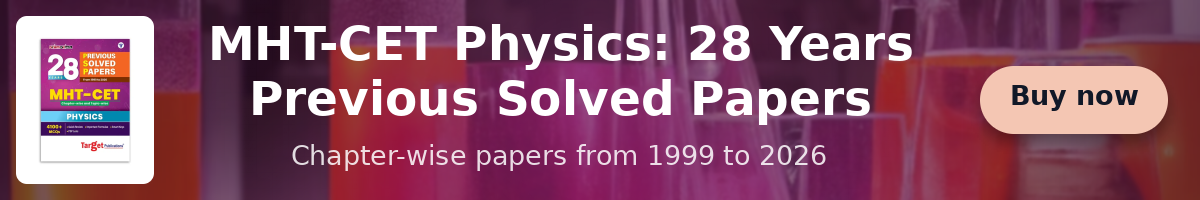
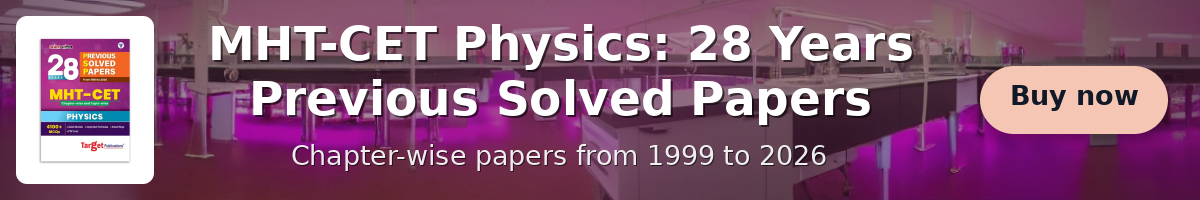
feat: native wide AI backgrounds with panoramic education prompts
- AiBackground::dimensions(): generate 6:1 / 4:1 / 3:1 banners natively wide instead of cropping a landscape photo
- AiStyles: panoramic prompt for every education scene, negative prompt against clutter
- Light overlay + soft text shadow on AI strips so the scene stays visible
- Physics scenes get a study-desk option for variety; study-desk prompt tightened
- tests and README

diff --git a/src/Ads/Ai/AiStyles.php b/src/Ads/Ai/AiStyles.php
@@ -33,6 +33,27 @@ final class AiStyles
         'books-stack' => 'stack of books with pencils and a green apple on a wooden desk by a window, {colors} color grading',
     ];
 
+        /**
+         * Panoramic versions of the education scenes, written for banners 2.4:1 and wider: the subject is spread along the
+         * whole width with calm space for the headline, instead of one subject in the middle.
+         *
+         * @var array<string, string>
+         */
+        private const WIDE = [
+            'classroom' => 'extremely wide panoramic photo, a long empty classroom with rows of wooden desks and a chalkboard along the whole width, soft daylight, shallow depth of field, {colors} tinted walls, symmetrical, clean',
+            'exam-hall' => 'extremely wide panoramic photo, a long row of empty exam desks and chairs in a school hall, soft daylight, shallow depth of field, {colors} color grading, symmetrical, clean',
+            'study-desk' => 'wide panoramic close-up photo of a wooden desk surface covered with stacks of books, open notebooks, pencils and an apple, window light behind, shallow depth of field, {colors} tinted, clean',
+            'library' => 'extremely wide panoramic photo, a long wooden shelf with a row of books, pencils, a globe and a desk lamp spread along the whole width, soft warm light, shallow depth of field, {colors} tinted background wall, empty clean space',
+            'science-lab' => 'extremely wide panoramic photo, a long science laboratory bench with a row of glass beakers, flasks, test tubes and a microscope spread along the whole width, soft {colors} light, shallow depth of field, dark blurred background',
+            'physics-concept' => 'wide panoramic illustration, physics theme, glowing atom orbits, pendulum, lenses and light rays spread along the whole width on a deep {colors} gradient background, thin glowing lines, clean minimal, empty center',
+            'chemistry-lab' => 'extremely wide panoramic photo, a long laboratory bench with colourful liquids in flasks and test tubes in a row, {colors} glow, dark blurred background, soft bokeh lights',
+            'maths-geometry' => 'extremely wide panoramic top view on graph paper, compass, ruler, protractor and set squares spread along the whole width, {colors} tones, soft light, clean, empty center',
+            'biology-lab' => 'extremely wide panoramic photo, a long bench with a microscope, petri dishes and green plant leaves spread along the width, fresh light, {colors} tones, shallow depth of field',
+            'notebook-desk' => 'extremely wide panoramic photo, a long desk with open notebooks, graph paper and pencils spread along the width, soft window light, {colors} tinted, shallow depth of field, empty clean space',
+            'graduation' => 'extremely wide panoramic photo, graduation caps in the air with golden confetti and bokeh across the whole width, celebration, {colors} tones, soft light, empty center',
+            'books-stack' => 'extremely wide panoramic photo, rows of stacked books with pencils and a green apple along a wooden desk by a window, {colors} tinted, shallow depth of field',
+        ];
+
     /** @var array<string, string> */
     private const ART = [
         'cinematic-bokeh' => 'cinematic abstract background, {colors} light, soft glowing particles, bokeh, smooth gradient, professional advertising backdrop',
@@ -51,9 +72,9 @@ final class AiStyles
 
     /** keyword in the ad copy => education scenes that fit it (first match with most specific subject wins) */
     private const TOPICS = [
-        'physics' => ['physics-concept', 'science-lab'],
-        'chemistry' => ['chemistry-lab', 'science-lab'],
-        'biology' => ['biology-lab', 'library'],
+        'physics' => ['physics-concept', 'science-lab', 'study-desk'],
+        'chemistry' => ['chemistry-lab', 'science-lab', 'study-desk'],
+        'biology' => ['biology-lab', 'library', 'study-desk'],
         'botany' => ['biology-lab'],
         'zoology' => ['biology-lab'],
         'math' => ['maths-geometry', 'notebook-desk'],
@@ -137,12 +158,19 @@ final class AiStyles
         return $candidates[($seed ?? random_int(0, PHP_INT_MAX)) % count($candidates)];
     }
 
-    /** @param string[] $colorNames */
-    public static function prompt(string $style, array $colorNames): string
+    /**
+     * @param string[] $colorNames
+     * @param bool     $wide       panoramic wording for banners 2.4:1 and wider
+     */
+    public static function prompt(string $style, array $colorNames, bool $wide = false): string
     {
         $colors = implode(' and ', array_unique($colorNames));
-        $template = self::EDUCATION[$style] ?? self::ART[$style];
         $isScene = isset(self::EDUCATION[$style]);
+
+        if ($wide && isset(self::WIDE[$style])) {
+            return str_replace('{colors}', $colors, self::WIDE[$style]) . ', photorealistic, no text, no letters, no logo, no people';
+        }
+        $template = self::EDUCATION[$style] ?? self::ART[$style];
 
         return str_replace('{colors}', $colors, $template) . ', ' . ($isScene ? self::SUFFIX : 'no text, no letters, no people, empty center space');
     }

diff --git a/src/Ads/Ai/AiBackground.php b/src/Ads/Ai/AiBackground.php
@@ -37,8 +37,9 @@ final class AiBackground
     public static function fetch(array $config, Theme $theme, int $targetW, int $targetH): array
     {
         $style = AiStyles::resolve($config['style'], $config['seed'], $config['topic'] ?? null);
-        $prompt = $config['prompt'] ?? AiStyles::prompt($style, [Color::name($theme->primary), Color::name($theme->accent)]);
-        [$w, $h] = self::dimensions($targetW / max(1, $targetH), $config['hires']);
+        $aspect = $targetW / max(1, $targetH);
+        $prompt = $config['prompt'] ?? AiStyles::prompt($style, [Color::name($theme->primary), Color::name($theme->accent)], $aspect >= 2.4);
+        [$w, $h] = self::dimensions($aspect, $config['hires']);
 
         $cache = self::cachePath($prompt, $w, $h, $config['seed']);
         if (is_file($cache) && ($img = @imagecreatefrompng($cache)) !== false) {
@@ -79,8 +80,9 @@ final class AiBackground
         $h = $canvas->height();
         $strip = $w / max(1, $h) >= 3.2;
         $canvas->picture($image, 0, 0, $w, $h, 'cover', 0, [0.5, 0.55]);
-        if ($strip) {
-            // A 6:1 slice of a photo is too busy and soft to be sharp: blur it into a calm, tinted band.
+        $native = abs(imagesx($image) / max(1, imagesy($image)) - $w / max(1, $h)) / ($w / max(1, $h)) < 0.25;
+        if ($strip && !$native) {
+            // A slice cropped from a landscape photo is busy and soft: blur it into a calm band. (Natively wide images stay sharp.)
             for ($i = 0; $i < 3; $i++) {
                 imagefilter($canvas->image(), IMG_FILTER_GAUSSIAN_BLUR);
             }
@@ -93,7 +95,7 @@ final class AiBackground
         $target = $darkMode ? 0.16 : 0.8;
 
         $needed = abs($avg - $scrimL) < 0.02 ? 0.3 : ($avg - $target) / ($avg - $scrimL);
-        $opacity = $strip ? max(0.5, min(0.74, $needed)) : ($lighter ? max(0.15, min(0.4, $needed)) : max(0.3, min(0.78, $needed)));
+        $opacity = $strip ? ($native ? max(0.22, min(0.46, $needed)) : max(0.5, min(0.74, $needed))) : ($lighter ? max(0.15, min(0.4, $needed)) : max(0.3, min(0.78, $needed)));
         $canvas->rect(0, 0, $w, $h, $scrim, $opacity);
 
         if ($strip) {
@@ -112,10 +114,18 @@ final class AiBackground
         }
     }
 
-    /** Sizes SD models handle well (multiples of 64, near 512x512): picked from the target aspect ratio. */
+    /**
+     * Sizes SD models handle well (multiples of 64, about 0.2-0.3 megapixels), picked from the target aspect ratio.
+     * Wide banners are generated natively wide (6:1, 4:1, 3:1) rather than cropped from a landscape photo.
+     *
+     * @return array{0:int,1:int}
+     */
     public static function dimensions(float $aspect, bool $hires = false): array
     {
         return match (true) {
+            $aspect >= 5.0 => $hires ? [1536, 256] : [1152, 192],
+            $aspect >= 3.6 => $hires ? [1280, 320] : [1024, 256],
+            $aspect >= 2.4 => $hires ? [1152, 384] : [960, 320],
             $aspect >= 1.25 => $hires ? [1024, 576] : [768, 448],
             $aspect <= 0.8 => $hires ? [576, 1024] : [448, 768],
             default => $hires ? [832, 832] : [640, 640],

diff --git a/tests/AdBuilderTest.php b/tests/AdBuilderTest.php
@@ -407,7 +407,10 @@ final class AdBuilderTest extends TestCase
             $this->assertStringContainsString('deep purple', $prompt);
             $this->assertStringContainsString('no text', $prompt);
         }
-        $this->assertSame([768, 448], AiBackground::dimensions(3.0));
+        $this->assertSame([1152, 192], AiBackground::dimensions(6.0));
+        $this->assertSame([1024, 256], AiBackground::dimensions(4.0));
+        $this->assertSame([960, 320], AiBackground::dimensions(3.03));
+        $this->assertSame([768, 448], AiBackground::dimensions(1.9));
         $this->assertSame([448, 768], AiBackground::dimensions(0.56));
         $this->assertSame([640, 640], AiBackground::dimensions(1.0));
         $this->assertSame('deep purple', Color::name([70, 20, 110]));
@@ -430,6 +433,11 @@ final class AdBuilderTest extends TestCase
         $this->assertContains(AiStyles::resolve('abstract', 4), AiStyles::artNames());
         $this->assertSame('watercolor', AiStyles::resolve('watercolor'));
         $this->assertStringContainsString('no people', AiStyles::prompt('classroom', ['deep blue']));
+        foreach (AiStyles::educationNames() as $scene) {
+            $wide = AiStyles::prompt($scene, ['deep purple'], true);
+            $this->assertStringContainsString('wide panoramic', $wide, $scene);
+            $this->assertStringContainsString('no text', $wide, $scene);
+        }
     }
 
     public function test_builder_derives_the_scene_from_headline_and_hero_not_the_detail_list(): void

diff --git a/src/Ads/Layouts/AbstractLayout.php b/src/Ads/Layouts/AbstractLayout.php
@@ -38,6 +38,7 @@ abstract class AbstractLayout implements Layout
         }
 
         $align = $spec->textAlign ?? $align;
+        $shadow = $spec->textShadow ? ['color' => [0, 0, 0], 'opacity' => 0.6] : null;
         if ($spec->textPanel) {
             $this->panel($canvas, $theme, $x, $y, $w, $h);
         }
@@ -77,11 +78,11 @@ abstract class AbstractLayout implements Layout
         $cursor = $y + max(0, intdiv($h - $content, 2));
 
         if ($head !== null) {
-            $cursor = $canvas->lines($head['lines'], $heading, $head['size'], $x, $cursor, $w, $textColor, $align, $head['lineHeight']);
+            $cursor = $canvas->lines($head['lines'], $heading, $head['size'], $x, $cursor, $w, $textColor, $align, $head['lineHeight'], $shadow);
         }
         if ($sub !== null) {
             $cursor += $gap;
-            $cursor = $canvas->lines($sub['lines'], $body, $sub['size'], $x, $cursor, $w, $textColor, $align, $sub['lineHeight'], null, 0.85);
+            $cursor = $canvas->lines($sub['lines'], $body, $sub['size'], $x, $cursor, $w, $textColor, $align, $sub['lineHeight'], $shadow, 0.92);
         }
         if ($list !== null) {
             $cursor += $gap;

diff --git a/src/Ads/AdBuilder.php b/src/Ads/AdBuilder.php
@@ -393,6 +393,7 @@ final class AdBuilder
             $spec->textPanel ??= !$layout instanceof PromoLayout && $spec->aspectRatio() < 3.2;   // strips use a blurred, tinted band instead
             // With a panel behind the text the photo can stay brighter and more visible.
             AiBackground::paint($canvas, $aiImage, $theme, (bool) $spec->textPanel);
+            $spec->textShadow = $spec->aspectRatio() >= 3.2;   // strips: light overlay + text shadow keep the scene visible
         } elseif (!($layout instanceof HeroLayout && $spec->hasImages())) {
             $style = $spec->background === 'auto' && $layout instanceof PromoLayout && $spec->aspectRatio() >= 2.2 ? 'arcs' : $spec->background;
             Backgrounds::paint($style, $canvas, $this->specWithTheme($theme), $theme);

diff --git a/src/Ads/Ai/HordeClient.php b/src/Ads/Ai/HordeClient.php
@@ -35,7 +35,7 @@ final class HordeClient
     {
         [$width, $height] = [self::snap($width), self::snap($height)];
 
-        $negative = $options['negative'] ?? 'text, letters, words, watermark, logo, signature, blurry, low quality, deformed';
+        $negative = $options['negative'] ?? 'text, letters, words, numbers, watermark, logo, signature, people, faces, cluttered, busy, noisy, blurry, low quality, deformed, frame, border';
         $payload = [
             'prompt' => $prompt . ' ### ' . $negative,
             'params' => array_filter([

diff --git a/src/Ads/AdSpec.php b/src/Ads/AdSpec.php
@@ -48,6 +48,9 @@ final class AdSpec
 
     public string $layout = 'auto';
     public string $background = 'auto';
+    /** Soft shadow behind headline and sub-headline (automatic on AI-photo strips). */
+    public bool $textShadow = false;
+
     /** left | right (wide layouts), top | bottom (square / portrait / story) */
     public string $imageSide = 'left';
 

diff --git a/README.md b/README.md
@@ -90,7 +90,11 @@ $ad->lastAiError();  // why it fell back to the built-in background (null when A
   `biology-lab`, `notebook-desk`, `graduation`, `books-stack`). `'abstract'` gives the old abstract art instead.
 - **Variety:** `->variant($n)` changes the product side (left/right, top/bottom), text alignment and panel; `->textAlign()`, `->imageSide()`
   and `->textPanel()` set them directly. With a photographic background a frosted panel is put behind the text automatically.
-- **Strips (1200x200):** the scene is blurred and tinted into a calm band. Use the cover photo exactly as supplied, whole, with
+- **Wide banners:** backgrounds are generated natively wide (1152x192 for 6:1 strips, 1024x256, 960x320) with panoramic prompts
+  written for each scene (a row of books on a shelf, a long lab bench, rows of exam desks ...), not cropped from a landscape photo.
+  The overlay is kept light and the headline gets a soft shadow, so the scene stays visible.
+- **Your own prompt:** `->aiBackground(prompt: 'wide panoramic photo, ...')` overrides the built-in one.
+- **Strips (1200x200):** Use the cover photo exactly as supplied, whole, with
   `->imageFit('contain')->cutout(false)` (`php examples/strip.php`).
 - **Try it:** `AIHORDE_API_KEY=... php examples/ai.php`.
 - Needs `ext-curl`. Check AI Horde's terms and your use case before publishing generated images commercially.
